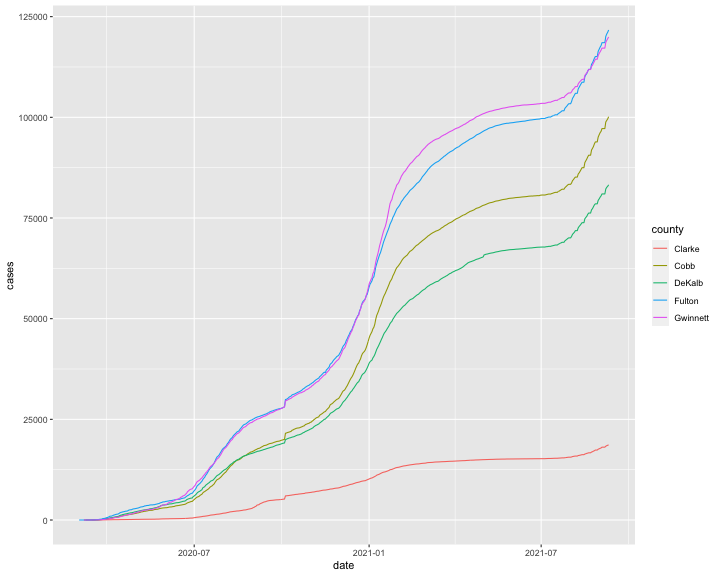
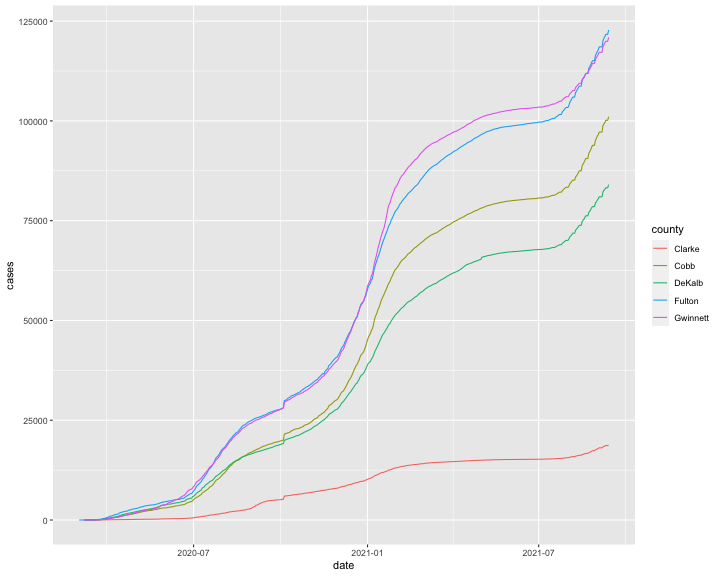
updates

diff --git a/content/teaching/slides/rlab5-visualizations.html b/content/teaching/slides/rlab5-visualizations.html
@@ -17,7 +17,7 @@ class: center, middle, inverse, title-slide
 ## RLab 5: Visualizations
 ### Alex Combs
 ### UGA | SPIA | PADP
-### Last updated: September 11, 2021
+### Last updated: September 14, 2021
 
 ---
 
@@ -83,7 +83,7 @@ covid &lt;- fread('https://raw.githubusercontent.com/nytimes/covid-19-data/maste
 
 
 ```
-## Rows: 1,706,152
+## Rows: 1,715,892
 ## Columns: 6
 ## $ date   &lt;chr&gt; "2020-01-21", "2020-01-22", "2020-01-23", "2020-01-24", "2020-…
 ## $ county &lt;chr&gt; "Snohomish", "Snohomish", "Snohomish", "Cook", "Snohomish", "O…
@@ -104,7 +104,7 @@ covid &lt;- fread('https://raw.githubusercontent.com/nytimes/covid-19-data/maste
 
 
 ```
-## Rows: 85,689
+## Rows: 86,169
 ## Columns: 6
 ## $ date   &lt;chr&gt; "2020-03-02", "2020-03-03", "2020-03-04", "2020-03-05", "2020-…
 ## $ county &lt;chr&gt; "Fulton", "Fulton", "Fulton", "Fulton", "Fulton", "Polk", "Cob…
@@ -128,7 +128,7 @@ covid_ga$date &lt;- ymd(covid_ga$date)
 
 
 ```
-## Rows: 85,689
+## Rows: 86,169
 ## Columns: 6
 ## $ date   &lt;date&gt; 2020-03-02, 2020-03-03, 2020-03-04, 2020-03-05, 2020-03-06, 2…
 ## $ county &lt;chr&gt; "Fulton", "Fulton", "Fulton", "Fulton", "Fulton", "Polk", "Cob…
@@ -209,8 +209,17 @@ yesterday &lt;- '2021-09-10'
 &gt; **Copy and paste below code to create a new data set that includes only these counties.**
 
 
+```r
+covid_ga_5 &lt;- covid_ga %&gt;% 
+  filter(county %in% c('Fulton', 'Cobb', 'DeKalb', 'Gwinnett', 'Clarke'))
+```
 
 
+```r
+covid_ga &lt;- covid_ga %&gt;% 
+  mutate(county5 = fct_other(county, 
+                             keep = c('Fulton', 'Cobb', 'DeKalb', 'Gwinnett', 'Clarke')))
+```
 
 ---
 # Viz 4
@@ -248,7 +257,7 @@ yesterday &lt;- '2021-09-10'
 
 --
 
-&gt; **Generate a line graph each for cases and deaths over the time span in the data for our 5 counties. Give each county its own line. To do so, you will need to include a third `aes`thetic in addition to `x` and `y`.**
+&gt; **Generate the appropriate graph each for cases and deaths over the time span in the data for our 5 counties. Give each county its own line. To do so, you will need to include a third `aes`thetic in addition to `x` and `y`.**
 
 ---
 # Viz 6
@@ -373,6 +382,8 @@ covid_ga_5 %&gt;%
 ```
 
 ---
+# Text size
+
 &lt;img src="rlab5-visualizations_files/figure-html/unnamed-chunk-27-1.png" style="display: block; margin: auto;" /&gt;
 
 ---
